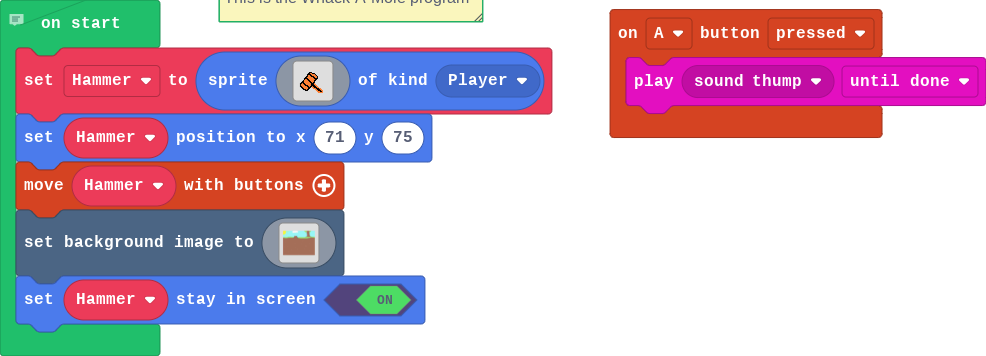
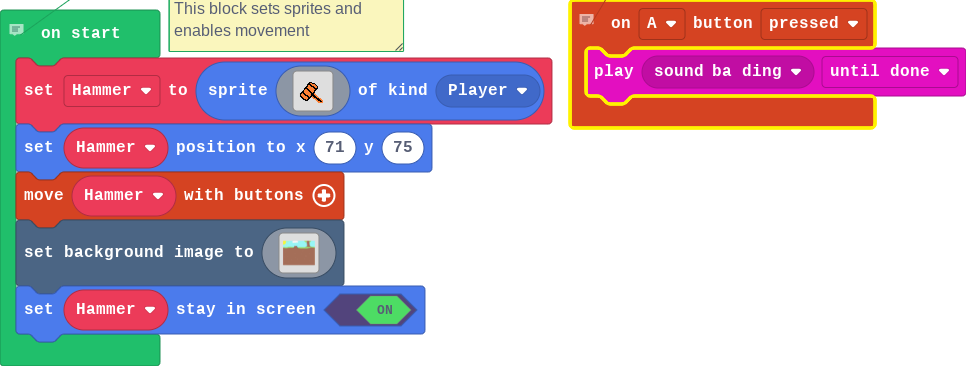
Update main.blocks, main.ts

Changed region(s): [[0.0, 0.0, 1.0, 1.0], [0.0311, 0.927, 0.0621, 0.9579], [0.0, 0.8961, 0.0311, 0.927]]

diff --git a/main.ts b/main.ts
@@ -1,10 +1,16 @@
+// Created by Alex James
+// Created on June 14 2024
+// 
+// This block plays a sound when the A button is pressed
 controller.A.onEvent(ControllerButtonEvent.Pressed, function () {
-    music.play(music.melodyPlayable(music.thump), music.PlaybackMode.UntilDone)
+    music.play(music.melodyPlayable(music.baDing), music.PlaybackMode.UntilDone)
 })
 // 
 // Created by: Alexander James
-// Created on: June 2024
+// Created on: June 14 2024
 // This is the Whack-A-Mole program 
+// 
+// This block sets sprites and enables movement
 // 
 let Hammer = sprites.create(img`
     ................................
